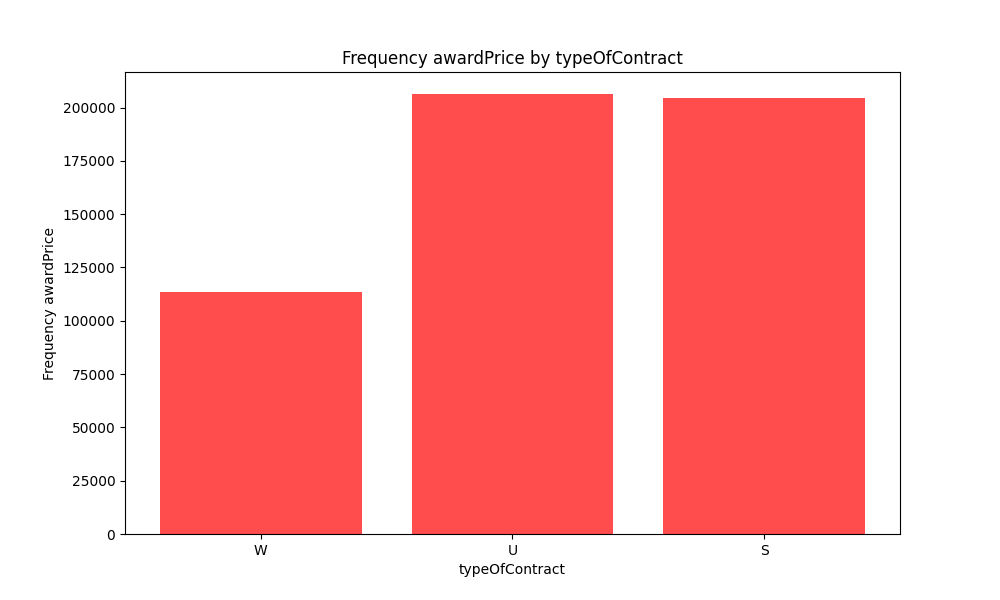
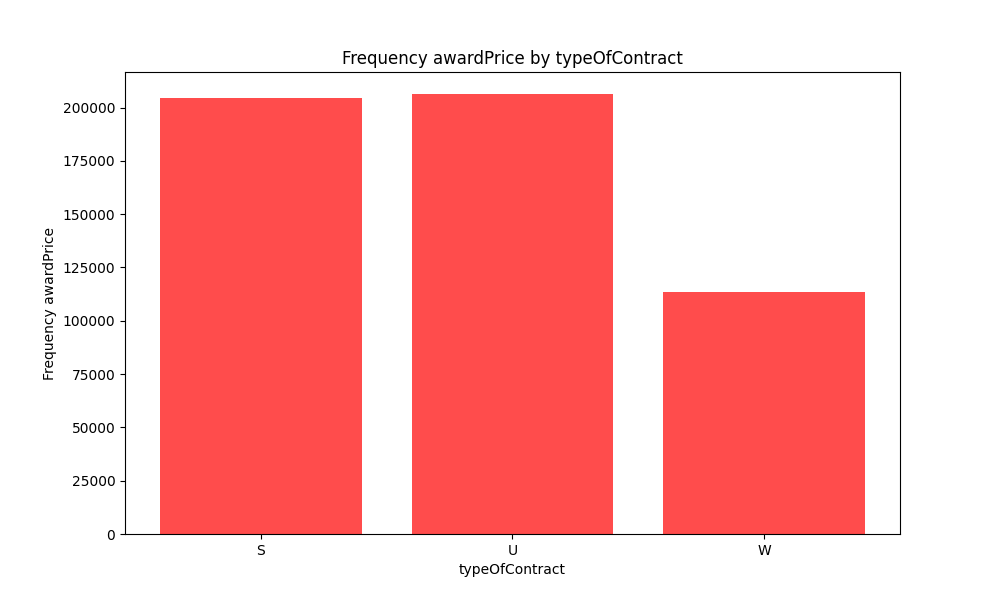
graphique annees

diff --git a/graphMaker.py b/graphMaker.py
@@ -56,22 +56,33 @@ def graph_frequency_maker(data, column):
     plt.savefig(f"charts_frequency/{column}_frequency_chart.png")
     
 def graph_double_maker(data, column1, column2):
-    # Create a dictionary to store values for each category
+    # creer les catégories uniques
     print(f"Graphiques {column1} et {column2}")
     categories = [category for category in data[column1] if category is not None and category != 'NaN']
     unique_categories = set(categories)
+    
+    # initialiser sommes et fréquences
     print("categorie de la classe: ", unique_categories)
     sommes = {category: 0 for category in unique_categories}
     frequency = {category: 0 for category in unique_categories}
 
+    # itérer le data frame
     for i, row in data.iterrows():
         if row[column1] in unique_categories and row[column2] is not None and isinstance(row[column2], (int, float)):
             sommes[row[column1]] += float(row[column2])
             frequency[row[column1]] += 1
+
+    # faire les moyennes
+    averages = {key: sommes[key] / frequency[key] if frequency[key] != 0 else 0 for key in unique_categories}
+    
+    # trier les frequences et les sommes
+    frequency = dict(sorted(frequency.items()))
+    sommes = dict(sorted(sommes.items()))
+    averages = dict(sorted(averages.items()))
+    
+    print("moyennes : ", averages)
     print("fréquence : ", frequency)
     print("sommes : ", sommes)
-    averages = {key: sommes[key] / frequency[key] if frequency[key] != 0 else 0 for key in unique_categories}
-    print("moyennes : ", averages)
     #Create a frequency histogram
     plt.figure(figsize=(10, 6))
     plt.bar(frequency.keys(), frequency.values(), color='red', alpha=0.7)

diff --git a/main.py b/main.py
@@ -164,6 +164,15 @@ def data_analysis():
         data = pd.DataFrame({'typeOfContract': data1, number_lots_column: data2})
         
         graphMaker.graph_double_maker(data, "typeOfContract", number_lots_column)
+    
+    data1 = dataframes["Lots"]["awardDate"].str[:4]
+    for number_lots_column in number_lots_columns:
+        data2 = pd.to_numeric(dataframes["Lots"][number_lots_column], errors='coerce')
+
+        # Create a new DataFrame with the desired columns
+        data = pd.DataFrame({'awardDate': data1, number_lots_column: data2})
+        
+        graphMaker.graph_double_maker(data, "awardDate", number_lots_column)
 
 
 #

diff --git a/test.py b/test.py
@@ -1,8 +1,8 @@
 import graphMaker
 import pandas as pd
-data1 = ["W", "V", "W", "W", "X", "X"]
+data1 = ["W", "V", "W", "W", "X", "X", "A"]
 column1 = "X"
-data2 = [10, 5, 1, 5, 6, 'A']
+data2 = [10, 5, 1, 5, 6, 25, 10]
 column2 = "Y"
 data = pd.DataFrame({'X': data1, 'Y': data2})
 graphMaker.graph_double_maker(data, column1, column2)
